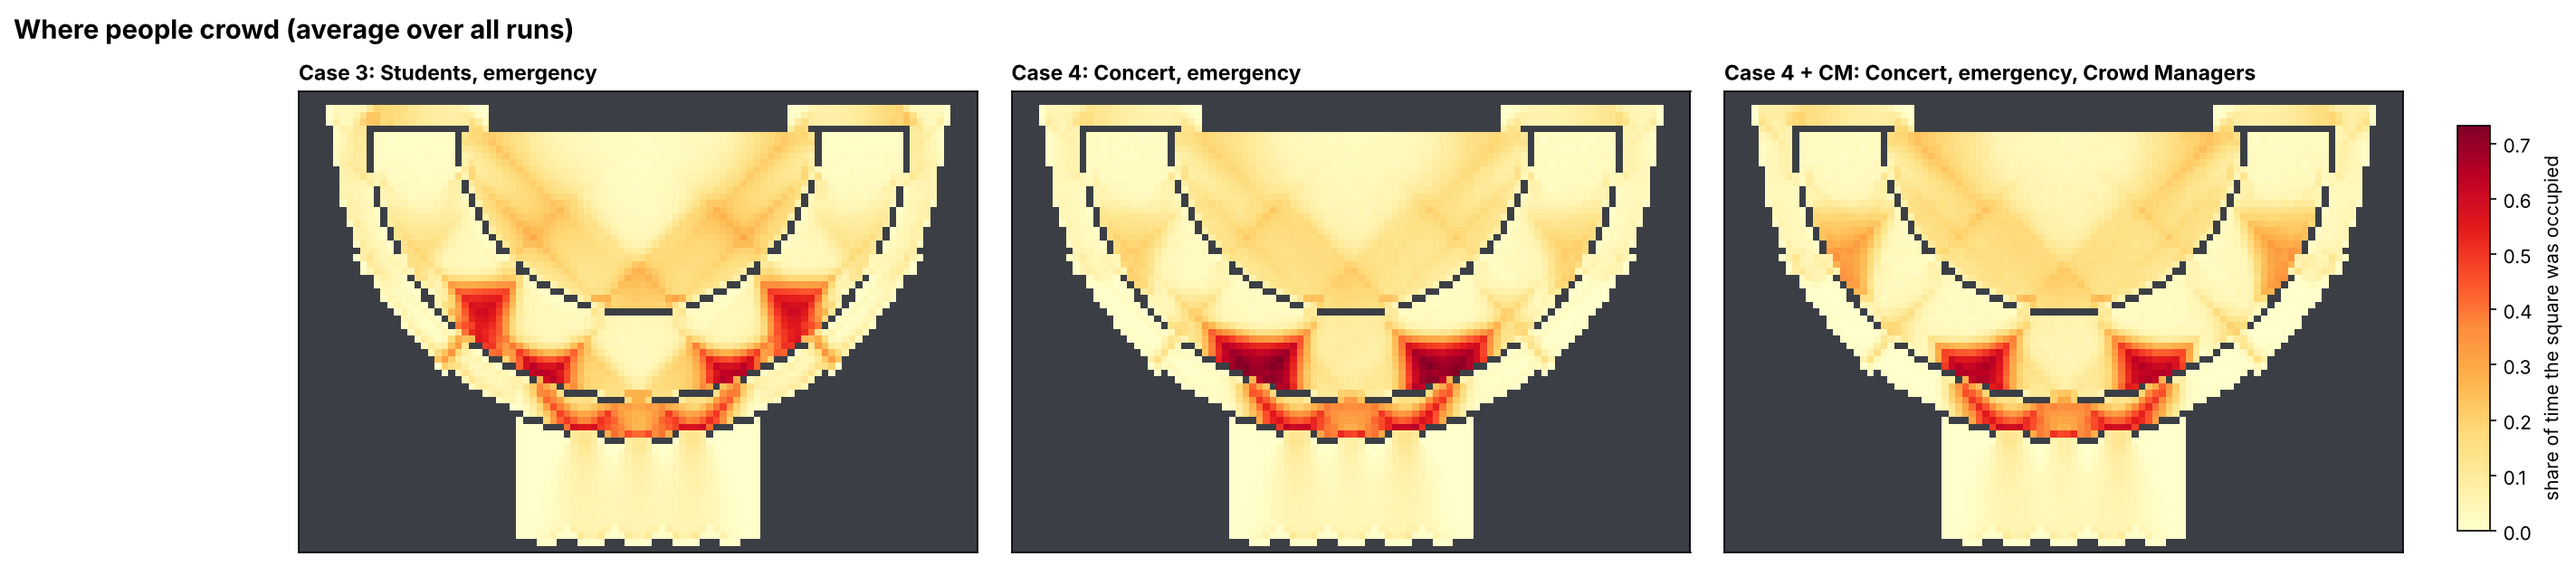
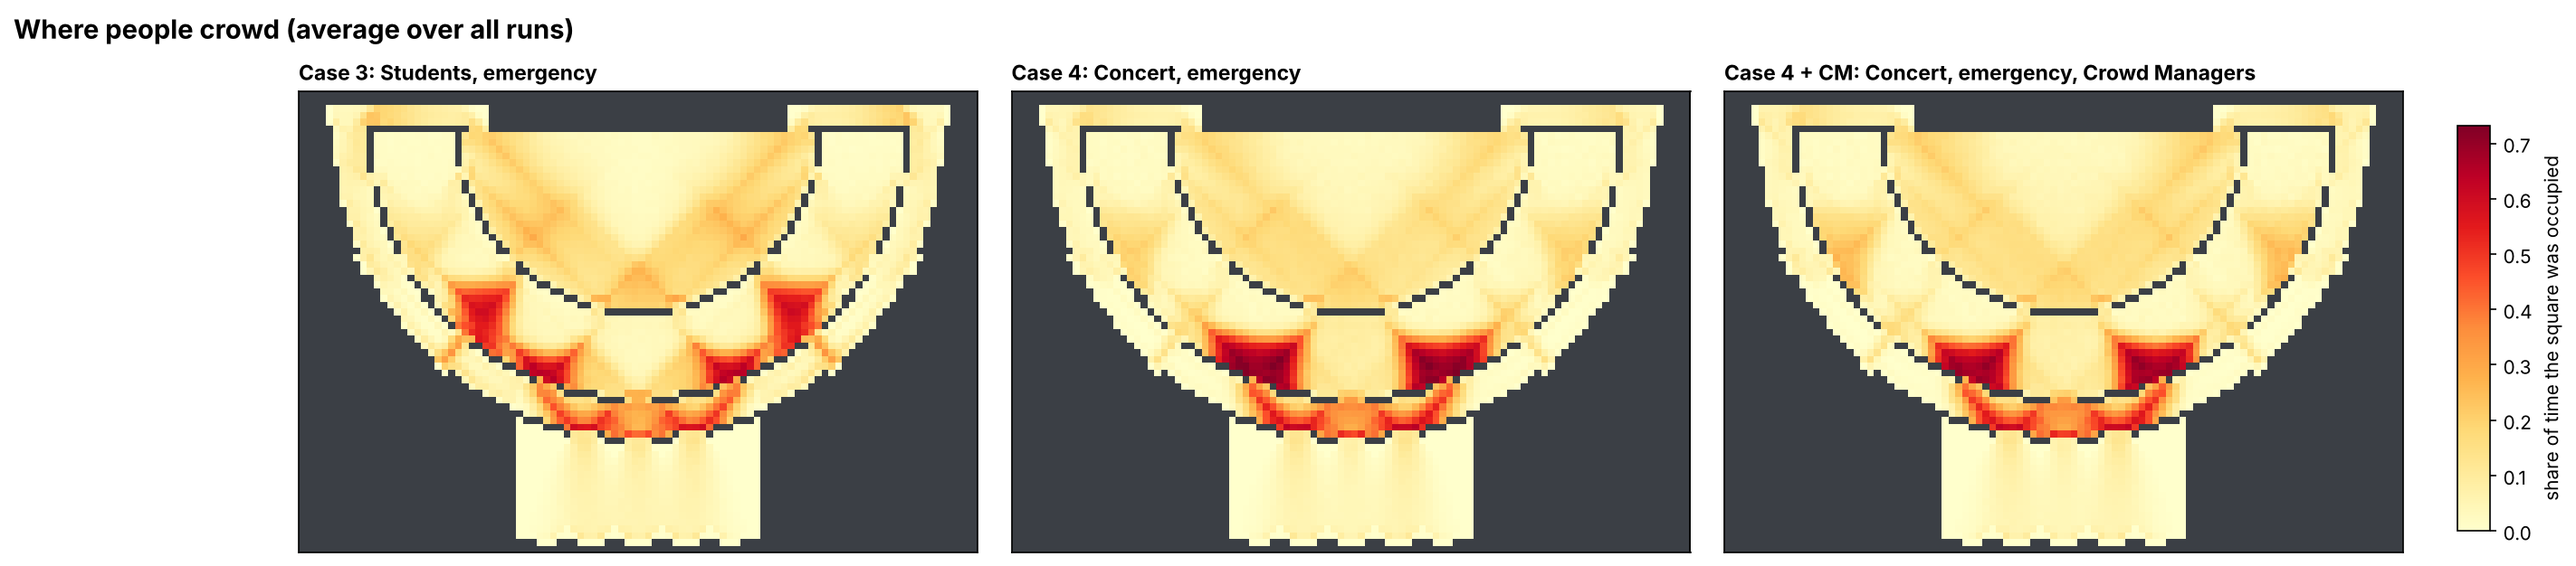
Crowd Managers: 80% guided instead of 100%, plus a 60-100% guided sweep
Claude-Session: https://claude.ai/code/session_01U71CpARVuiNg5Pzmof8GBr

diff --git a/sweep.py b/sweep.py
@@ -1,0 +1,78 @@
+"""
+How much does it help when more people follow the ushers / Crowd Managers?
+
+    python sweep.py
+
+We run the concert emergency (case 4 data) with 60 %, 70 %, 80 %, 90 % and 100 % of people guided.
+The people who are NOT guided are split like in the normal concert: 25 : 15 between habit and nearest.
+Results: output/guided_sweep.png and output/guided_sweep.csv
+"""
+import csv
+import os
+import statistics
+
+import matplotlib
+
+matplotlib.use("Agg")
+import matplotlib.pyplot as plt
+
+import simulation as sim
+
+NUMBER_OF_RUNS = 30
+TIME_LIMIT = 180
+OUTPUT_FOLDER = "output"
+GUIDED_SHARES = [0.60, 0.70, 0.80, 0.90, 1.00]
+
+
+def main():
+    os.makedirs(OUTPUT_FOLDER, exist_ok=True)
+    hall = sim.setup()
+    data = sim.load_flow_data()
+
+    rows = []
+    summary = []
+    for guided in GUIDED_SHARES:
+        rest = 1.0 - guided                                   # people who don't follow the ushers
+        case = {"case": f"{guided:.0%} guided", "data_case": 4, "name": "Concert, emergency",
+                "reaction": 10.0, "guided": guided, "habit": rest * 25 / 40, "nearest": rest * 15 / 40}
+        times = []
+        for run in range(NUMBER_OF_RUNS):
+            rates = sim.rates_for_run(data, 4, run)
+            people, _, _, _ = sim.run_once(run, hall, case, rates)
+            last_out, _ = sim.calculated_escape_time(people, hall, rates)
+            times.append(last_out)
+            rows.append({"guided": guided, "run": run, "calculated_time_s": round(last_out, 1)})
+        under = sum(1 for t in times if t <= TIME_LIMIT)
+        summary.append((guided, statistics.mean(times), statistics.stdev(times), under))
+        print(f"{guided:4.0%} guided: {statistics.mean(times):6.1f} s +- {statistics.stdev(times):4.1f}, "
+              f"within {TIME_LIMIT} s in {under}/{NUMBER_OF_RUNS} runs")
+
+    with open(os.path.join(OUTPUT_FOLDER, "guided_sweep.csv"), "w", newline="") as f:
+        writer = csv.DictWriter(f, fieldnames=list(rows[0]))
+        writer.writeheader()
+        writer.writerows(rows)
+
+    # ---- figure: escape time against % guided ----
+    fig, ax = plt.subplots(figsize=(7.5, 4.5))
+    xs = [100 * g for g, _, _, _ in summary]
+    for g in GUIDED_SHARES:                                   # every run as a faint dot
+        ys = [r["calculated_time_s"] for r in rows if r["guided"] == g]
+        ax.scatter([100 * g] * len(ys), ys, color="#6250d6", alpha=0.18, s=14, linewidths=0)
+    ax.errorbar(xs, [m for _, m, _, _ in summary], yerr=[s for _, _, s, _ in summary],
+                color="#6250d6", marker="o", capsize=4, lw=2, label="average ± spread (30 runs)")
+    ax.axhline(TIME_LIMIT, color="#d03b3b", ls="--", lw=1.2, label=f"{TIME_LIMIT} s limit")
+    for x, (_, m, _, under) in zip(xs, summary):
+        ax.annotate(f"{under}/{NUMBER_OF_RUNS}", (x, m), textcoords="offset points", xytext=(8, 8), fontsize=9)
+    ax.set_xticks(xs, [f"{x:.0f} %" for x in xs])
+    ax.set_xlabel("people who follow the ushers / Crowd Managers")
+    ax.set_ylabel("last person out (s, calculated)")
+    ax.set_title("Concert emergency: the more people follow the plan, the faster")
+    ax.legend(frameon=False, loc="upper right")
+    ax.spines[["top", "right"]].set_visible(False)
+    fig.savefig(os.path.join(OUTPUT_FOLDER, "guided_sweep.png"), dpi=160, bbox_inches="tight")
+    plt.close(fig)
+    print(f"saved {OUTPUT_FOLDER}/guided_sweep.png and guided_sweep.csv")
+
+
+if __name__ == "__main__":
+    main()

diff --git a/simulation.py b/simulation.py
@@ -50,10 +50,10 @@ CASES = [
      "reaction": 5.0, "guided": 0.0, "habit": 0.40, "nearest": 0.60},
     {"case": "4", "data_case": 4, "name": "Concert, emergency",
      "reaction": 10.0, "guided": 0.60, "habit": 0.25, "nearest": 0.15},
-    # Crowd Managers: we assume they get everyone to follow the ushers' plan (100 % guided),
-    # which spreads people over all exits as efficiently as possible
+    # Crowd Managers: they halve the people who ignore the ushers (40 % -> 20 %),
+    # keeping the same habit : nearest ratio (25 : 15). Not 100 %: some people never listen.
     {"case": "4 + CM", "data_case": 4, "name": "Concert, emergency, Crowd Managers",
-     "reaction": 10.0, "guided": 1.0, "habit": 0.0, "nearest": 0.0},
+     "reaction": 10.0, "guided": 0.80, "habit": 0.125, "nearest": 0.075},
 ]
 
 # our measured bottleneck data (one file per place, 4 cases x 500 runs each)

diff --git a/README.md b/README.md
@@ -15,9 +15,9 @@ We simulate the two **emergency** cases from our data, plus the concert with Cro
 |---|---|---|---|---|
 | 3 | Students (lecture) | case 3 | 5 s | 60% nearest exit, 40% habit (front foyer) |
 | 4 | Concert audience | case 4 | 10 s | 60% follow the ushers, 25% habit, 15% nearest exit |
-| 4 + CM | Concert audience, with Crowd Managers | case 4 | 10 s | **100% follow the ushers** |
+| 4 + CM | Concert audience, with Crowd Managers | case 4 | 10 s | **80% follow the ushers**, 12.5% habit, 7.5% nearest |
 
-For the Crowd Manager scenario we assume the Crowd Managers get everyone to follow the ushers' plan, which spreads people over all the exits as efficiently as possible (rule 4).
+For the Crowd Manager scenario we assume the Crowd Managers **halve the number of people who ignore the ushers** (40% → 20%). The rest keep the concert's habit : nearest ratio of 25 : 15. We don't use 100%: in a real evacuation some people never listen, and Question 4 (barriers and LEDs) needs room to improve on it. Because the true share is unknown, we also run a sweep from 60% to 100% guided (see below).
 Everything else is the same as case 4: the same measured doorway rates, and the same reaction time.
 
 ## How to run
@@ -35,8 +35,9 @@ It takes about 3–4 minutes. The results go into the `output/` folder.
 |---|---|
 | `simulation.py` | The model: the map, distances, people, choosing an exit, moving step by step, and the doorway limits from our data. |
 | `main.py` | Runs each case 30 times, prints a summary and draws the figures. |
+| `sweep.py` | Runs the concert with 60%, 70%, 80%, 90% and 100% guided (about 9 minutes). |
 | `data/` | Our measured bottleneck data: `stairs.csv`, `corridor.csv`, `foyer_doors.csv`. |
-| `output/` | `map.png`, `escape_time.png`, `doorway_times.png`, `heatmap.png`, `flow_check.png`, `results.csv` |
+| `output/` | `map.png`, `escape_time.png`, `doorway_times.png`, `heatmap.png`, `flow_check.png`, `results.csv`, `guided_sweep.png`, `guided_sweep.csv` |
 
 ## Our bottleneck data
 
@@ -193,12 +194,12 @@ The step-by-step simulation's own finishing time is still printed and saved, for
 
 | | Case 3: students | Case 4: concert | Case 4 + CM: concert with Crowd Managers |
 |---|---|---|---|
-| **Calculated time until the last person is out** | **143 s** | **190 s** | **157 s** |
-| Spread between runs (standard deviation) | 7 s | 17 s | 12 s |
-| Fastest / slowest run | 132 s / 159 s | 169 s / 221 s | 136 s / 179 s |
-| Runs within the 180 s limit | **30 of 30** | **11 of 30** | **30 of 30** |
-| Doorways that finish last | P2 and P3 (138 s), FRONT (132 s) | FRONT (190 s), foyer door 2 (182 s) | FRONT (157 s), foyer door 2 (149 s) |
-| Step-by-step simulation's own time (for comparison) | 190 s | 245 s | 209 s |
+| **Calculated time until the last person is out** | **143 s** | **190 s** | **175 s** |
+| Spread between runs (standard deviation) | 7 s | 17 s | 13 s |
+| Fastest / slowest run | 132 s / 159 s | 169 s / 221 s | 155 s / 206 s |
+| Runs within the 180 s limit | **30 of 30** | **11 of 30** | **21 of 30** |
+| Doorways that finish last | P2 and P3 (138 s), FRONT (132 s) | FRONT (190 s), foyer door 2 (182 s) | FRONT (175 s), foyer door 2 (167 s) |
+| Step-by-step simulation's own time (for comparison) | 190 s | 245 s | 227 s |
 
 Average number of people per exit:
 
@@ -206,7 +207,7 @@ Average number of people per exit:
 |---|---|---|---|---|---|---|---|
 | 3: students | 546 | 63 | 61 | 76 | 258 | 256 | 69 |
 | 4: concert | 639 | 106 | 107 | 112 | 128 | 128 | 110 |
-| 4 + CM: concert with Crowd Managers | 534 | 147 | 147 | 149 | 101 | 101 | 149 |
+| 4 + CM: concert with Crowd Managers | 587 | 127 | 127 | 131 | 114 | 114 | 129 |
 
 ![escape time](output/escape_time.png)
 
@@ -214,7 +215,7 @@ Average number of people per exit:
 
 - **Students:** always within 180 s. They react faster and 60% use the nearest exit, so the hall empties through all exits. The side doors P2 and P3 next to the foyer finish last; about 255 people each use them.
 - **Concert:** only about a third of the runs make 180 s. The foyer route decides it: 639 people go out the front.
-- **Concert with Crowd Managers:** **33 s faster on average (157 s vs 190 s), and every run makes 180 s.** The ushers send about 100 fewer people to the front, and more to the less-used exits (NW, NE, P1, P4: about 148 each instead of about 110). The slowest run (179 s) only just makes the limit, though.
+- **Concert with Crowd Managers:** **15 s faster on average (175 s vs 190 s), and 21 of 30 runs make 180 s instead of 11.** About 50 fewer people go out the front, and the less-used exits (NW, NE, P1, P4) get about 128 each instead of about 110. The slowest runs still miss the limit, which leaves room for barriers and LEDs (Question 4).
 
 ![doorway times](output/doorway_times.png)
 
@@ -225,8 +226,8 @@ The longest bar decides the escape time.
   - The 3 foyer doors and the FRONT exit finish last.
   - Before them, mezzanine doors 4 and 6, the ones next to the foyer, take about 140 people each and finish at about 170 s.
 - **Concert with Crowd Managers:**
-  - Mezzanine doors 4 and 6 drop to about 110 people each, and the front exit to 534 people.
-  - The foyer route still finishes last, but about 30 s earlier.
+  - Fewer people queue at mezzanine doors 4 and 6, and the front exit drops to 587 people.
+  - The foyer route still finishes last, but about 15 s earlier.
 - **Students:** the load is spread more evenly, and the side doors P2 and P3 finish last.
 
 ![heat map](output/heatmap.png)
@@ -259,7 +260,22 @@ So the calculated time is what our measured rates allow, and the simulation's ow
 Our data says each mezzanine door and stair opening lets through only about 1 person per second.
 People don't spread evenly over the 9 mezzanine doors: the doors closest to the foyer get about 140 people each, while the far ones get fewer than 45.
 This points to where guidance (ushers or LED signs) could help most: spreading people over the mezzanine doors and away from the foyer.
-The Crowd Manager scenario confirms it: with everyone following the ushers' plan, the concert gets out about 33 s faster.
+The Crowd Manager scenario confirms it: with 80% instead of 60% following the ushers' plan, the concert gets out about 15 s faster.
+
+### How much does following the plan matter? (`python sweep.py`)
+
+The share of people who follow Crowd Managers is a guess, so we ran the concert emergency with 60% to 100% guided (30 runs each; the non-guided people split 25 : 15 between habit and nearest).
+
+| People guided | 60% (no CM) | 70% | **80% (our CM case)** | 90% | 100% (best case) |
+|---|---|---|---|---|---|
+| Calculated time (average ± spread) | 190 ± 17 s | 183 ± 16 s | **175 ± 13 s** | 166 ± 14 s | 158 ± 12 s |
+| Runs within 180 s | 11 of 30 | 12 of 30 | **21 of 30** | 24 of 30 | 30 of 30 |
+
+![guided sweep](output/guided_sweep.png)
+
+- Every extra 10% of people who follow the plan saves about **8 s**.
+- The **average** drops below 180 s from about 75% guided, but **every** run makes it only at 100%.
+- So Crowd Managers alone help, but they aren't enough on their own: Question 4 (barriers and LEDs) has to close the remaining gap.
 
 ## Simplifications
 
@@ -270,6 +286,6 @@ The Crowd Manager scenario confirms it: with everyone following the ushers' plan
 - **The calculation** assumes each doorway works at its full rate while people wait, and uses the shortest walk between doorways. It doesn't add the time a doorway sits idle because the doorway before it is slow, except through the "last person arrives" rule.
 - **Map:** one floor, simplified shapes, door widths estimated from the CMCM drawings. The balcony itself isn't drawn.
 - **Speed and reaction:** everyone walks at the same speed, and reaction time is fixed and the same for everyone.
-- **Ushers / Crowd Managers:** modelled only through the exit each guided person is given (the ushers' spread-out plan). They don't stand in the hall or talk to people on the way. In the Crowd Manager scenario we assume everyone follows them (100% guided), which is the best case.
+- **Ushers / Crowd Managers:** modelled only through the exit each guided person is given (the ushers' spread-out plan). They don't stand in the hall or talk to people on the way. In the Crowd Manager scenario we assume 80% follow them (an assumption; `sweep.py` shows 60–100%).
 
 All the settings are named constants at the top of `simulation.py`.
